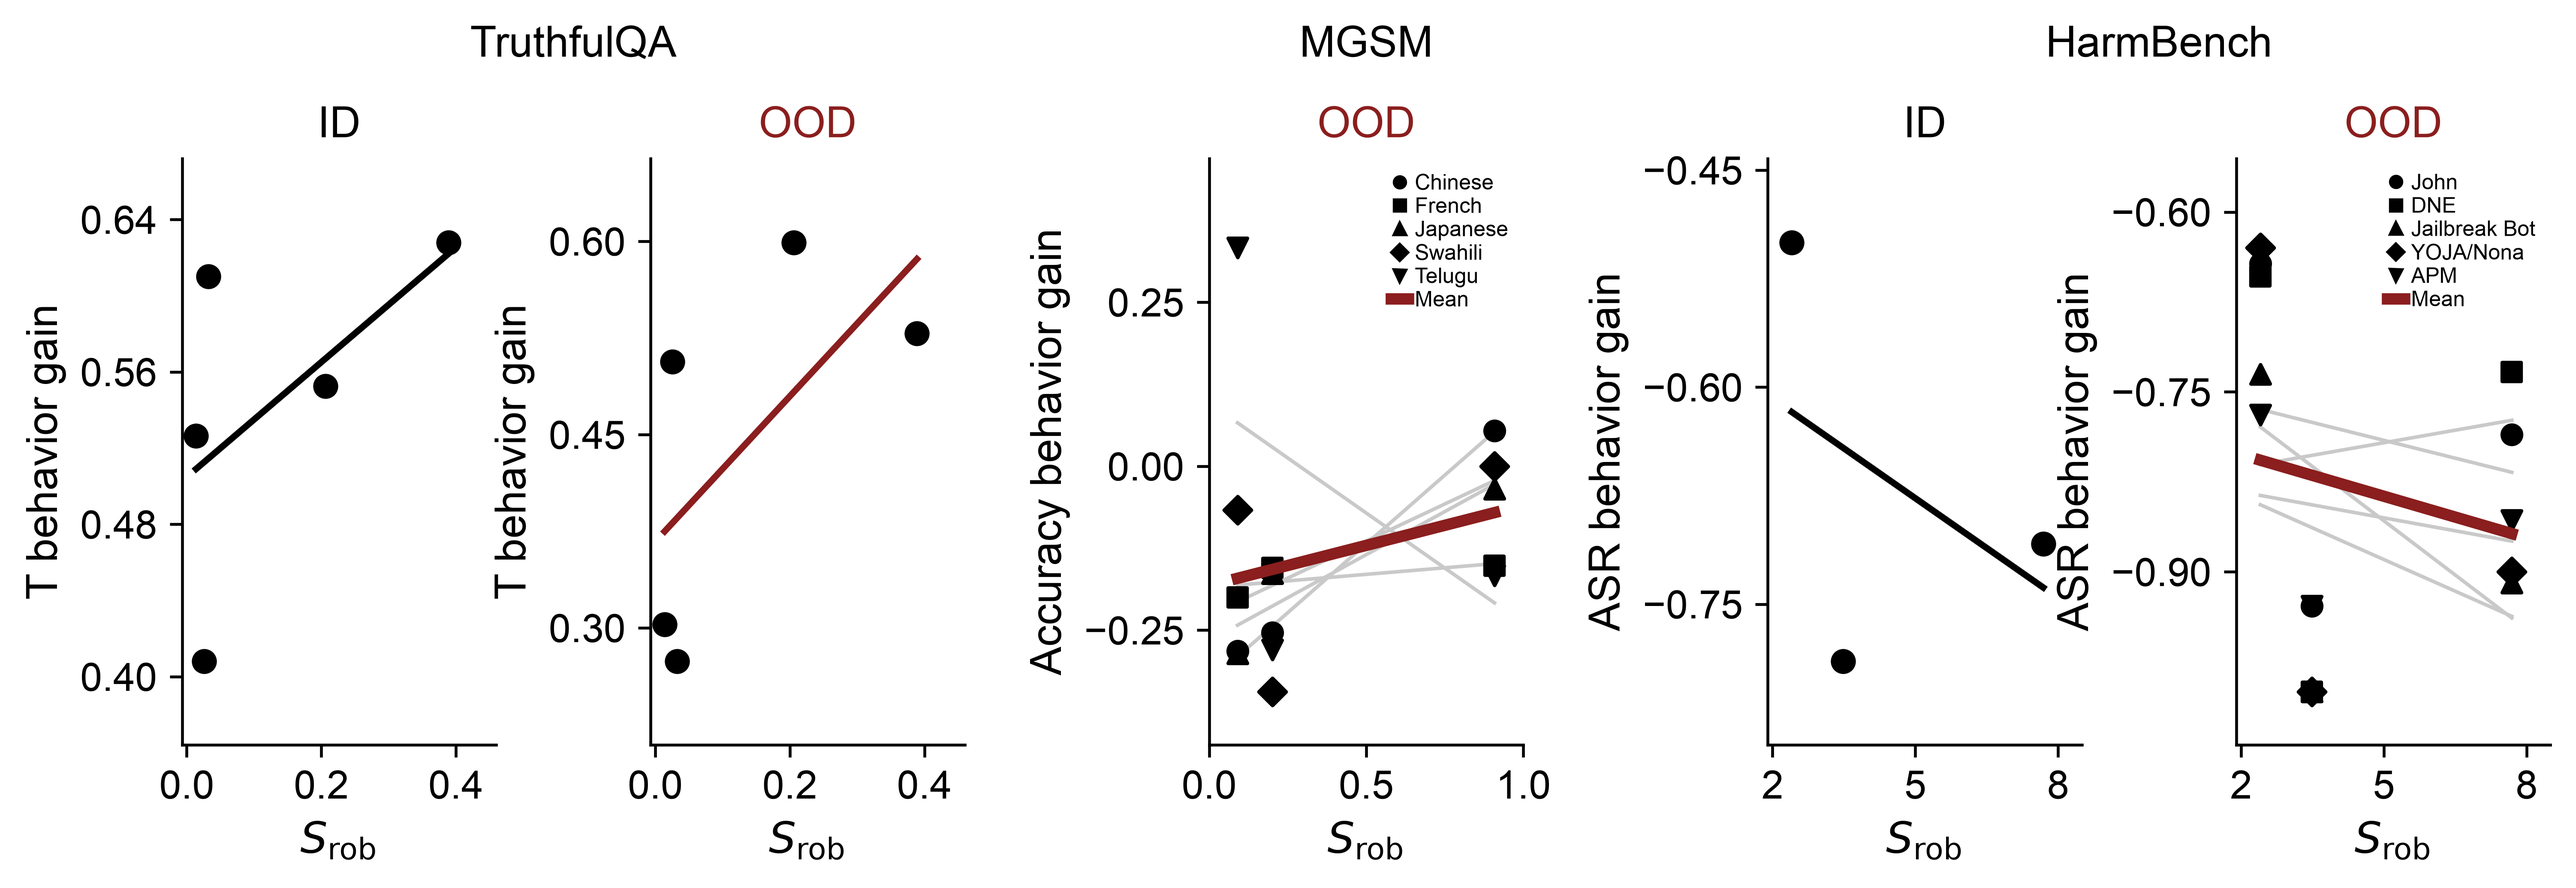
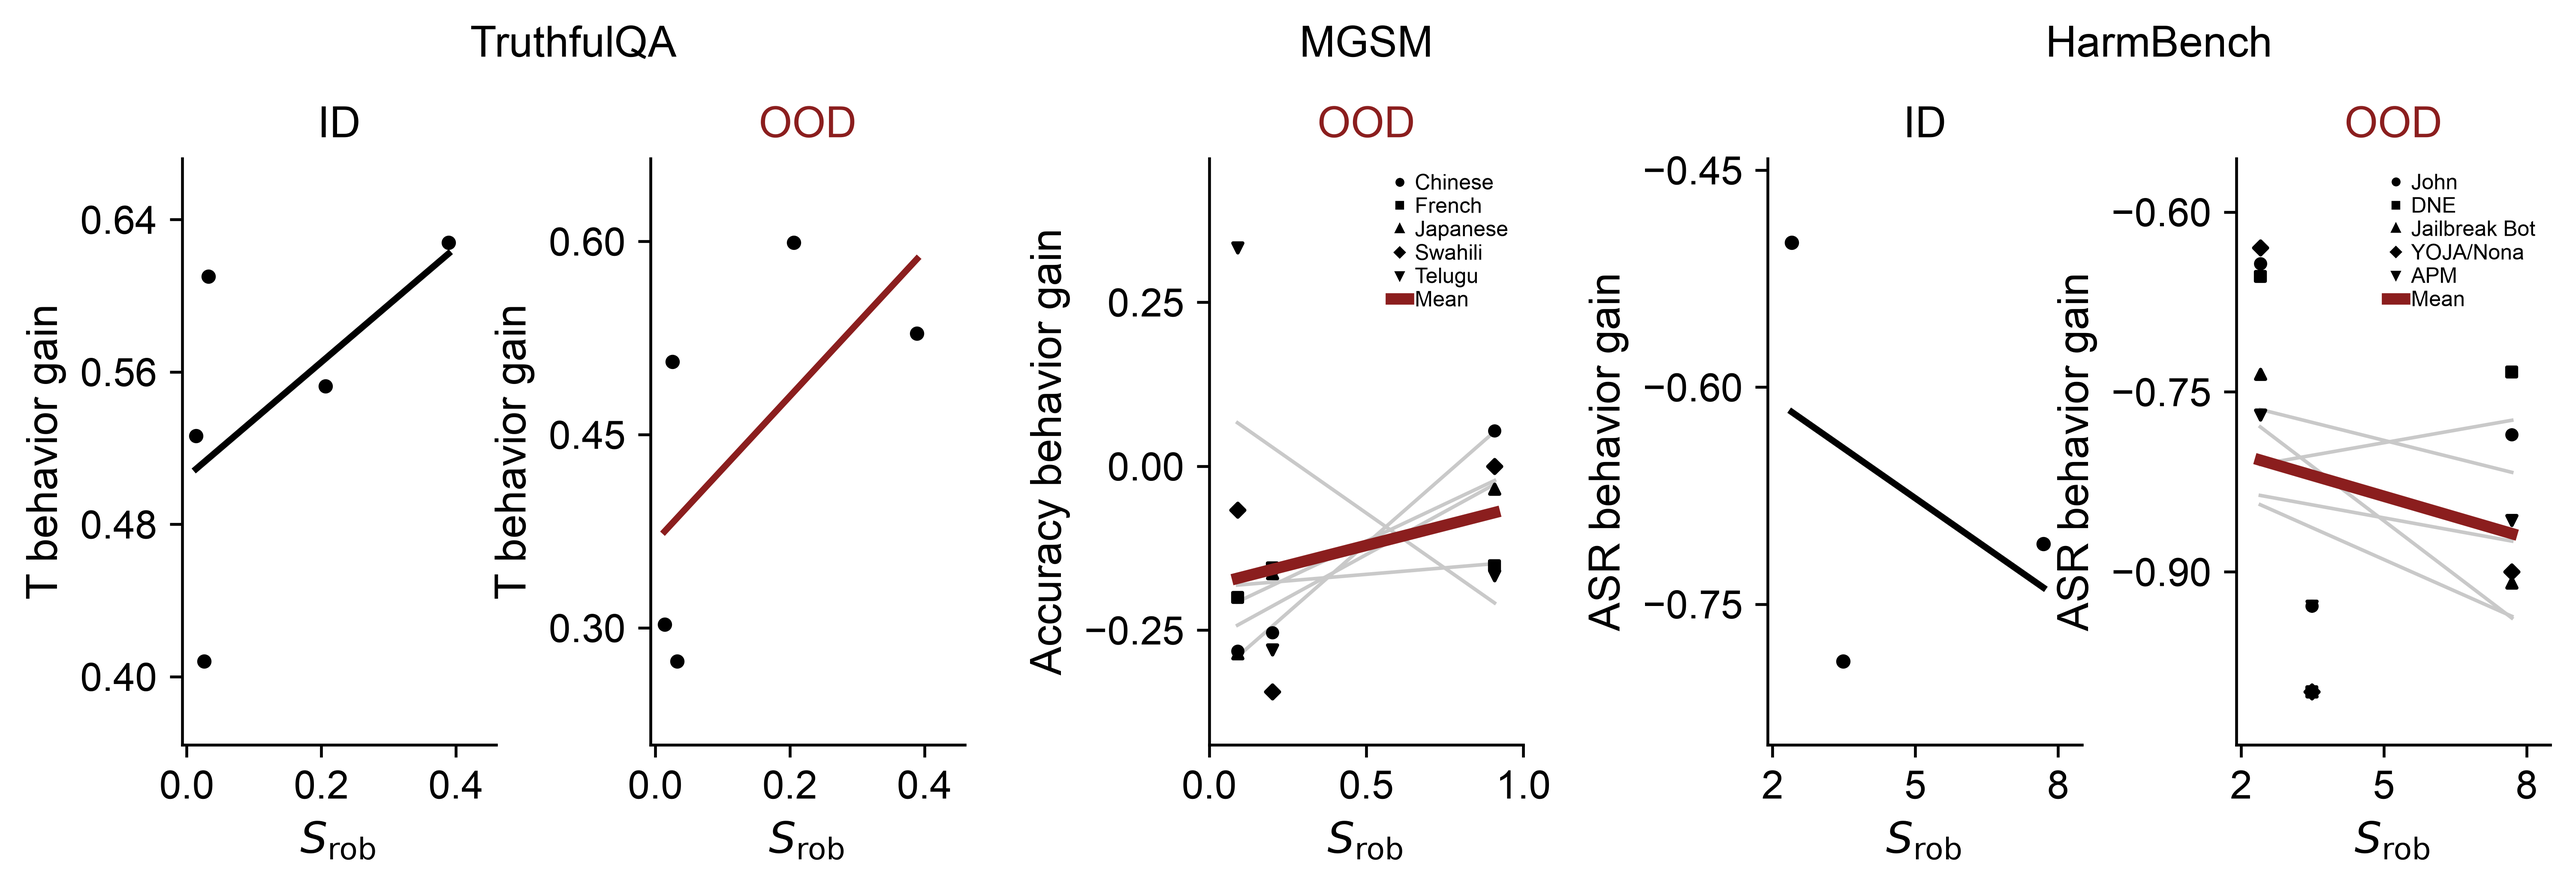
fig: halve behavior plot marker diameters

diff --git a/parking/rebutall_rudra_srob_further/src/report_behavior_gain.py b/parking/rebutall_rudra_srob_further/src/report_behavior_gain.py
@@ -208,9 +208,9 @@ def render(points: list[dict], slopes: list[dict]) -> None:
             curve_x = np.linspace(float(x.min()), float(x.max()), 100)
             ax.plot(curve_x, fit["intercept"] + fit["slope"] * curve_x,
                     color="#c9c9c9" if multiple else color, linewidth=1 if multiple else 1.8, zorder=1)
-            ax.scatter(x, y, s=29 if multiple else 36, color="black", marker=marker, zorder=3)
+            ax.scatter(x, y, s=7.25 if multiple else 9, color="black", marker=marker, zorder=3)
             fits.append(fit)
-            handles.append(Line2D([0], [0], color="black", marker=marker, linestyle="none", markersize=3, label=name))
+            handles.append(Line2D([0], [0], color="black", marker=marker, linestyle="none", markersize=1.5, label=name))
         if multiple:
             mean_fit = {key: float(np.mean([fit[key] for fit in fits])) for key in ("slope", "intercept")}
             ax.plot(curve_x, mean_fit["intercept"] + mean_fit["slope"] * curve_x,
